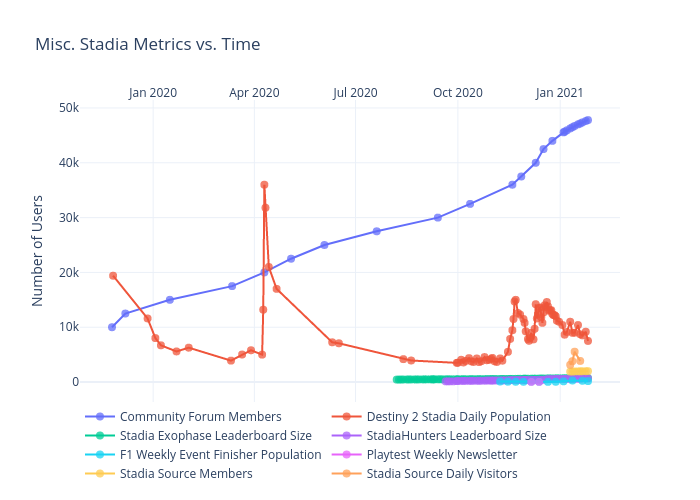
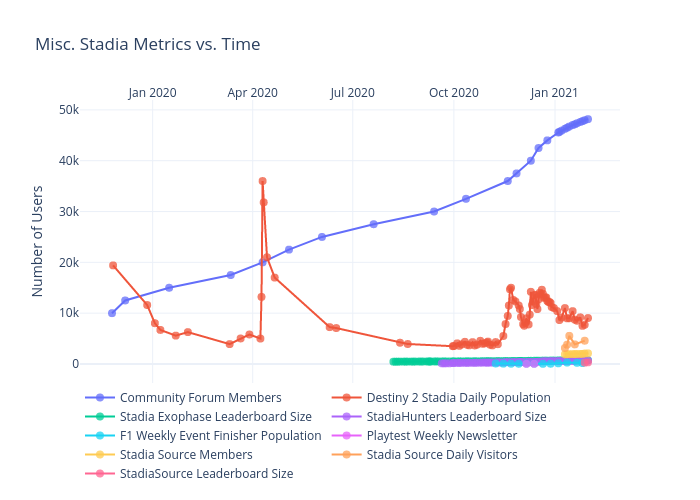
Add files via upload

diff --git a/misc/figure.js b/misc/figure.js
@@ -275,7 +275,9 @@ var figure = {
                 "47167",
                 "47367",
                 "47613",
-                "47789"
+                "47789",
+                "47960",
+                "48177"
             ],
             "marker": {
                 "size": 8,
@@ -560,7 +562,9 @@ var figure = {
                 "8720",
                 "8510",
                 "9180",
-                "7500"
+                "7500",
+                "7720",
+                "9040"
             ],
             "marker": {
                 "size": 8,
@@ -845,7 +849,9 @@ var figure = {
                 "715",
                 "718",
                 "719",
-                "723"
+                "723",
+                "725",
+                "733"
             ],
             "marker": {
                 "size": 8,
@@ -1130,7 +1136,9 @@ var figure = {
                 "633",
                 "652",
                 "656",
-                "661"
+                "661",
+                "663",
+                "673"
             ],
             "marker": {
                 "size": 8,
@@ -1955,7 +1963,9 @@ var figure = {
                 "1956",
                 "1965",
                 "1976",
-                "1986"
+                "1986",
+                "2065",
+                "2097"
             ],
             "marker": {
                 "size": 8,
@@ -2237,7 +2247,298 @@ var figure = {
                 "3807",
                 "5534",
                 null,
-                "3853"
+                "3853",
+                null,
+                null,
+                null,
+                "4578"
+            ],
+            "marker": {
+                "size": 8,
+                "opacity": 0.75
+            },
+            "stackgroup": null,
+            "connectgaps": true,
+            "hovertemplate": "%{x}, %{y}"
+        },
+        {
+            "meta": {
+                "columnNames": {
+                    "x": "Date",
+                    "y": "StadiaSource Leaderboard Size"
+                }
+            },
+            "mode": "markers+lines",
+            "name": "%{meta.columnNames.y}",
+            "type": "scatter",
+            "xsrc": "jdeslip:366:739eb8",
+            "x": [
+                "Date",
+                "2019-11-25",
+                "2019-11-26",
+                "2019-12-07",
+                "2019-12-27",
+                "2020-01-03",
+                "2020-01-08",
+                "2020-01-16",
+                "2020-01-22",
+                "2020-02-02",
+                "2020-03-11",
+                "2020-03-12",
+                "2020-03-21",
+                "2020-03-29",
+                "2020-04-08",
+                "2020-04-09",
+                "2020-04-10",
+                "2020-04-11",
+                "2020-04-14",
+                "2020-04-21",
+                "2020-05-04",
+                "2020-06-03",
+                "2020-06-10",
+                "2020-06-16",
+                "2020-06-21",
+                "2020-07-20",
+                "2020-07-29",
+                "2020-07-30",
+                "2020-07-31",
+                "2020-08-01",
+                "2020-08-03",
+                "2020-08-05",
+                "2020-08-07",
+                "2020-08-09",
+                "2020-08-11",
+                "2020-08-13",
+                "2020-08-16",
+                "2020-08-18",
+                "2020-08-20",
+                "2020-08-23",
+                "2020-08-25",
+                "2020-08-27",
+                "2020-08-30",
+                "2020-09-01",
+                "2020-09-03",
+                "2020-09-06",
+                "2020-09-08",
+                "2020-09-09",
+                "2020-09-10",
+                "2020-09-13",
+                "2020-09-15",
+                "2020-09-17",
+                "2020-09-20",
+                "2020-09-22",
+                "2020-09-24",
+                "2020-09-27",
+                "2020-09-30",
+                "2020-10-01",
+                "2020-10-04",
+                "2020-10-06",
+                "2020-10-08",
+                "2020-10-11",
+                "2020-10-12",
+                "2020-10-13",
+                "2020-10-15",
+                "2020-10-18",
+                "2020-10-20",
+                "2020-10-22",
+                "2020-10-25",
+                "2020-10-27",
+                "2020-10-29",
+                "2020-10-31",
+                "2020-11-01",
+                "2020-11-03",
+                "2020-11-05",
+                "2020-11-08",
+                "2020-11-10",
+                "2020-11-12",
+                "2020-11-15",
+                "2020-11-17",
+                "2020-11-19",
+                "2020-11-20",
+                "2020-11-21",
+                "2020-11-22",
+                "2020-11-24",
+                "2020-11-26",
+                "2020-11-27",
+                "2020-11-29",
+                "2020-11-30",
+                "2020-12-01",
+                "2020-12-03",
+                "2020-12-04",
+                "2020-12-05",
+                "2020-12-06",
+                "2020-12-08",
+                "2020-12-09",
+                "2020-12-10",
+                "2020-12-11",
+                "2020-12-12",
+                "2020-12-13",
+                "2020-12-14",
+                "2020-12-15",
+                "2020-12-16",
+                "2020-12-17",
+                "2020-12-18",
+                "2020-12-19",
+                "2020-12-20",
+                "2020-12-21",
+                "2020-12-22",
+                "2020-12-23",
+                "2020-12-24",
+                "2020-12-25",
+                "2020-12-26",
+                "2020-12-27",
+                "2020-12-28",
+                "2020-12-29",
+                "2020-12-31",
+                "2021-01-03",
+                "2021-01-04",
+                "2021-01-05",
+                "2021-01-07",
+                "2021-01-10",
+                "2021-01-12",
+                "2021-01-14",
+                "2021-01-17",
+                "2021-01-19",
+                "2021-01-21",
+                "2021-01-24",
+                "2021-01-26",
+                "2021-01-28",
+                "2021-01-31",
+                "2021-02-02"
+            ],
+            "ysrc": "jdeslip:366:4af722",
+            "y": [
+                "StadiaSource Leaderboard Size",
+                null,
+                null,
+                null,
+                null,
+                null,
+                null,
+                null,
+                null,
+                null,
+                null,
+                null,
+                null,
+                null,
+                null,
+                null,
+                null,
+                null,
+                null,
+                null,
+                null,
+                null,
+                null,
+                null,
+                null,
+                null,
+                null,
+                null,
+                null,
+                null,
+                null,
+                null,
+                null,
+                null,
+                null,
+                null,
+                null,
+                null,
+                null,
+                null,
+                null,
+                null,
+                null,
+                null,
+                null,
+                null,
+                null,
+                null,
+                null,
+                null,
+                null,
+                null,
+                null,
+                null,
+                null,
+                null,
+                null,
+                null,
+                null,
+                null,
+                null,
+                null,
+                null,
+                null,
+                null,
+                null,
+                null,
+                null,
+                null,
+                null,
+                null,
+                null,
+                null,
+                null,
+                null,
+                null,
+                null,
+                null,
+                null,
+                null,
+                null,
+                null,
+                null,
+                null,
+                null,
+                null,
+                null,
+                null,
+                null,
+                null,
+                null,
+                null,
+                null,
+                null,
+                null,
+                null,
+                null,
+                null,
+                null,
+                null,
+                null,
+                null,
+                null,
+                null,
+                null,
+                null,
+                null,
+                null,
+                null,
+                null,
+                null,
+                null,
+                null,
+                null,
+                null,
+                null,
+                null,
+                null,
+                null,
+                null,
+                null,
+                null,
+                null,
+                null,
+                null,
+                null,
+                null,
+                null,
+                null,
+                "263",
+                "316"
             ],
             "marker": {
                 "size": 8,
@@ -2256,8 +2557,8 @@ var figure = {
             "side": "top",
             "type": "date",
             "range": [
-                "2019-10-29 12:53:15.4828",
-                "2021-02-21 11:06:44.5172"
+                "2019-10-29 05:28:05.1496",
+                "2021-02-26 18:31:54.8504"
             ],
             "title": {
                 "text": ""
@@ -2267,8 +2568,8 @@ var figure = {
         "yaxis": {
             "type": "linear",
             "range": [
-                -3390.465303771956,
-                51206.465303771954
+                -3418.2274690469344,
+                51622.227469046935
             ],
             "title": {
                 "text": "Number of Users"
